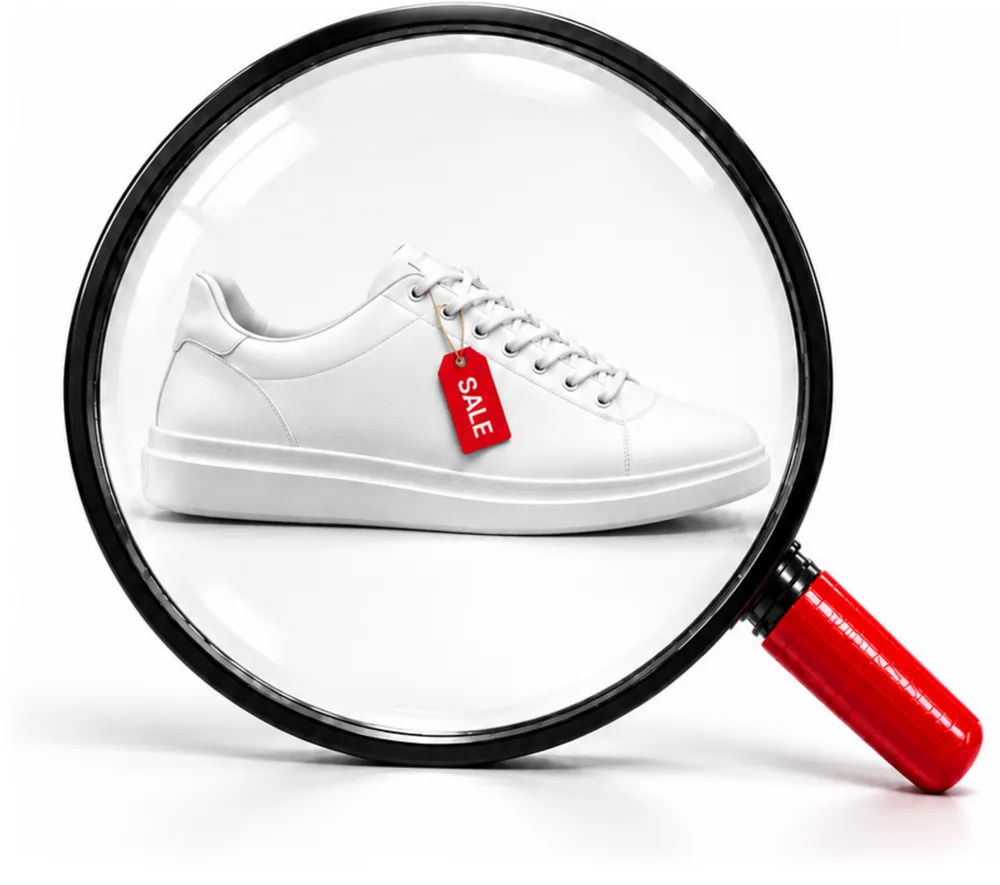
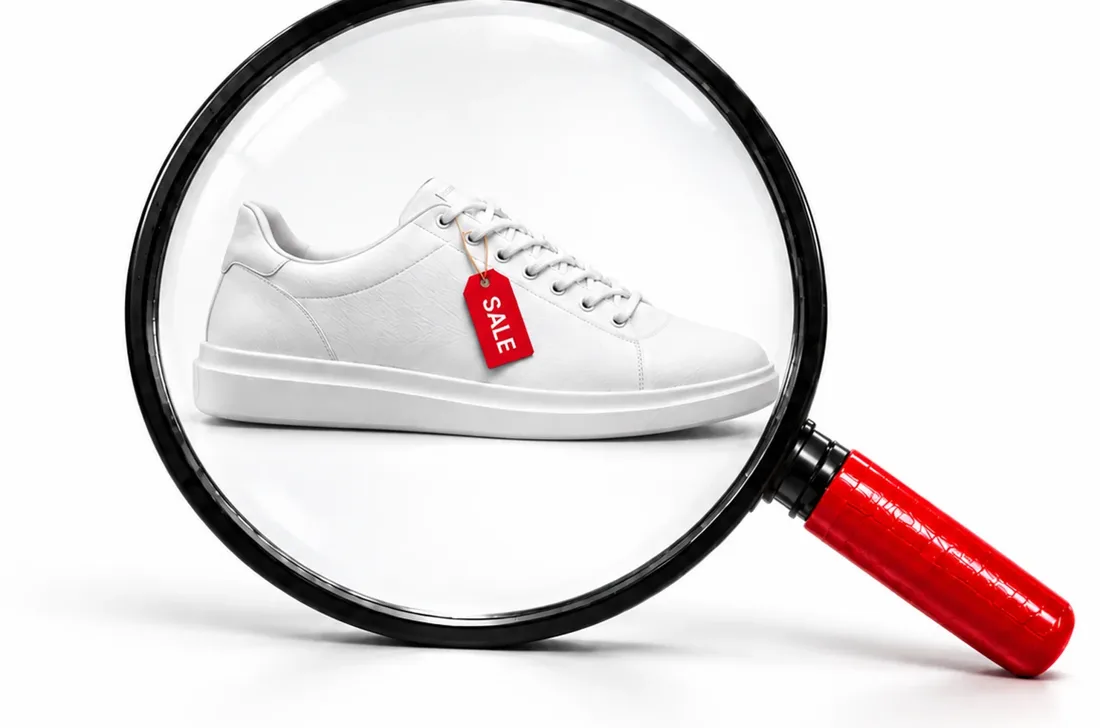
Große Lupe im Abschnitt Versprechen gegen runde Fassung getauscht, kleine Lupe mit Metallring und glänzenderem Griff

Changed region(s): [[0.062, 0.0, 0.992, 0.967]]

diff --git a/index.html b/index.html
@@ -93,17 +93,24 @@ header.kopf{position:absolute;inset:0 0 auto 0;z-index:20;padding-top:max(16px,e
 .hero .lupe.greift .griff{cursor:grabbing}
 .hero .griff{position:absolute;left:50%;top:50%;width:calc(var(--d)*.15);height:calc(var(--d)*1.42);margin-left:calc(var(--d)*-.075);transform-origin:50% 0;transform:rotate(-45deg);
   border-radius:0 0 calc(var(--d)*.075) calc(var(--d)*.075) / 0 0 calc(var(--d)*.06) calc(var(--d)*.06);
-  background:linear-gradient(90deg,#ff6b74 0%,#ea1b2e 22%,#c60a1b 58%,#7d0510 100%);
-  box-shadow:calc(var(--d)*.03) calc(var(--d)*.04) calc(var(--d)*.12) rgba(0,0,0,.65),inset 0 calc(var(--d)*-.02) calc(var(--d)*.03) rgba(0,0,0,.35)}
-.hero .griff::before{content:"";position:absolute;left:-12%;right:-12%;top:calc(var(--d)*.5 - 2px);height:calc(var(--d)*.13);border-radius:3px;
-  background:linear-gradient(90deg,#8a8a8a 0%,#2a2a2a 30%,#0a0a0a 60%,#3a3a3a 100%);box-shadow:0 3px 6px rgba(0,0,0,.6)}
+  background:linear-gradient(90deg,#4a060d 0%,#9c0914 18%,#d10b1c 40%,#e8323f 50%,#c50a1a 64%,#7a0711 86%,#3a0409 100%);
+  box-shadow:calc(var(--d)*.03) calc(var(--d)*.05) calc(var(--d)*.14) rgba(0,0,0,.7),inset calc(var(--d)*.01) 0 calc(var(--d)*.02) rgba(255,255,255,.12),inset 0 calc(var(--d)*-.03) calc(var(--d)*.04) rgba(0,0,0,.45)}
+.hero .griff::before{content:"";position:absolute;left:-16%;right:-16%;top:calc(var(--d)*.49);height:calc(var(--d)*.15);border-radius:4px;
+  background:linear-gradient(90deg,#1a1a1a 0%,#5a5a5a 22%,#0d0d0d 50%,#444 78%,#111 100%),linear-gradient(180deg,rgba(255,255,255,.15),rgba(0,0,0,.4));background-blend-mode:overlay;box-shadow:0 3px 7px rgba(0,0,0,.65),inset 0 1px 0 rgba(255,255,255,.2)}
 .hero .griff::after{content:"";position:absolute;left:-110%;right:-110%;top:calc(var(--d)*.5);bottom:-14px}
-.hero .glas{position:absolute;inset:0;border-radius:50%;overflow:hidden;box-sizing:border-box;border:7px solid #141414;background:#000;
-  box-shadow:0 0 0 1.5px rgba(255,255,255,.5),0 0 0 2.5px #000,0 26px 60px rgba(0,0,0,.7),inset 0 0 34px rgba(0,0,0,.45)}
+.hero .glas{position:absolute;inset:0;border-radius:50%;overflow:hidden;box-sizing:border-box;border:calc(var(--d)*.055) solid #151515;background:#000;
+  box-shadow:0 calc(var(--d)*.1) calc(var(--d)*.22) rgba(0,0,0,.7),inset 0 0 calc(var(--d)*.1) rgba(0,0,0,.45)}
+/* Metallring mit Kante: liegt über dem Rand des Glases */
+.hero .lupe::before{content:"";position:absolute;inset:0;border-radius:50%;pointer-events:none;z-index:2;
+  background:radial-gradient(circle closest-side,transparent calc(100% - var(--d)*.062),rgba(255,255,255,.3) calc(100% - var(--d)*.058),#2a2a2a calc(100% - var(--d)*.048),#0b0b0b calc(100% - var(--d)*.03),#3a3a3a calc(100% - var(--d)*.012),#777 calc(100% - 1.5px),#111 100%)}
+/* Glas: Randvignette, Lichtreflex oben links, schmaler Reflexstreifen */
+.hero .glas::after{content:"";position:absolute;inset:0;border-radius:50%;pointer-events:none;
+  background:radial-gradient(circle at 50% 50%,transparent 58%,rgba(0,0,0,.42) 100%),
+             radial-gradient(ellipse 34% 22% at 32% 22%,rgba(255,255,255,.34),rgba(255,255,255,0) 100%),
+             linear-gradient(135deg,rgba(255,255,255,0) 38%,rgba(255,255,255,.1) 44%,rgba(255,255,255,0) 50%)}
 .hero .glas .innen{position:absolute;left:0;top:0;transform-origin:0 0;will-change:transform;background:var(--schwarz)}
 .hero .innen-bild{position:absolute;overflow:hidden}
 .hero .innen-bild img{position:absolute;inset:0;width:100%;height:100%;object-fit:cover}
-.hero .glas::after{content:"";position:absolute;inset:0;border-radius:50%;background:radial-gradient(circle at 30% 24%,rgba(255,255,255,.3),transparent 42%),linear-gradient(160deg,rgba(255,255,255,.1),transparent 55%)}
 .hero .inhalt{position:relative;z-index:4;width:100%;padding-top:140px;padding-bottom:clamp(28px,6vh,64px);pointer-events:none}
 .hero .inhalt a{pointer-events:auto}
 .hero .innen .inhalt,.hero .innen .kopf{z-index:auto;pointer-events:none;margin:0;max-width:none;inset:auto}
@@ -120,7 +127,6 @@ header.kopf{position:absolute;inset:0 0 auto 0;z-index:20;padding-top:max(16px,e
   .hero .film{position:relative;inset:auto;height:46svh;min-height:300px;max-height:420px}
   .hero .film img,.hero .film video,.hero .innen-bild img{object-position:50% 32%}
   .hero .schleier{background:linear-gradient(180deg,rgba(12,12,12,.35) 0%,rgba(12,12,12,0) 30%,rgba(12,12,12,0) 70%,var(--schwarz) 100%)}
-  .hero .glas{border-width:5px}
   .hero .inhalt{padding-top:6px;padding-bottom:22px}
   .hero .eyebrow{display:none}
   .hero h1{font-size:clamp(34px,9.6vw,42px);margin:0 0 10px}
@@ -222,7 +228,6 @@ footer .cta .knopf{flex:0 1 auto}
   footer .marke .wm{font-size:20px}
   .cta .knopf{flex-basis:100%}
   .eyebrow{font-size:13px;letter-spacing:.1em}
-  .hero .glas{border-width:5px}
   }
 }
 
@@ -311,7 +316,7 @@ footer .cta .knopf{flex:0 1 auto}
         <p class="erkl">Viele Shops schreiben „Sale“ und meinen „fast normal“. Wir vergleichen den Preis mit anderen Shops und prüfen, ob deine Größe wirklich da ist. Erst dann landet ein Deal im Kanal.</p>
       </div>
       <div class="lupe-bild rein">
-        <img src="assets/lupe.webp" alt="Große Lupe, darunter ein weißer Sneaker mit rotem Sale-Anhänger" width="1000" height="885" loading="lazy" decoding="async">
+        <img src="assets/lupe.webp" alt="Große Lupe, darunter ein weißer Sneaker mit rotem Sale-Anhänger" width="1100" height="728" loading="lazy" decoding="async">
       </div>
     </div>
     <div class="punkte">
